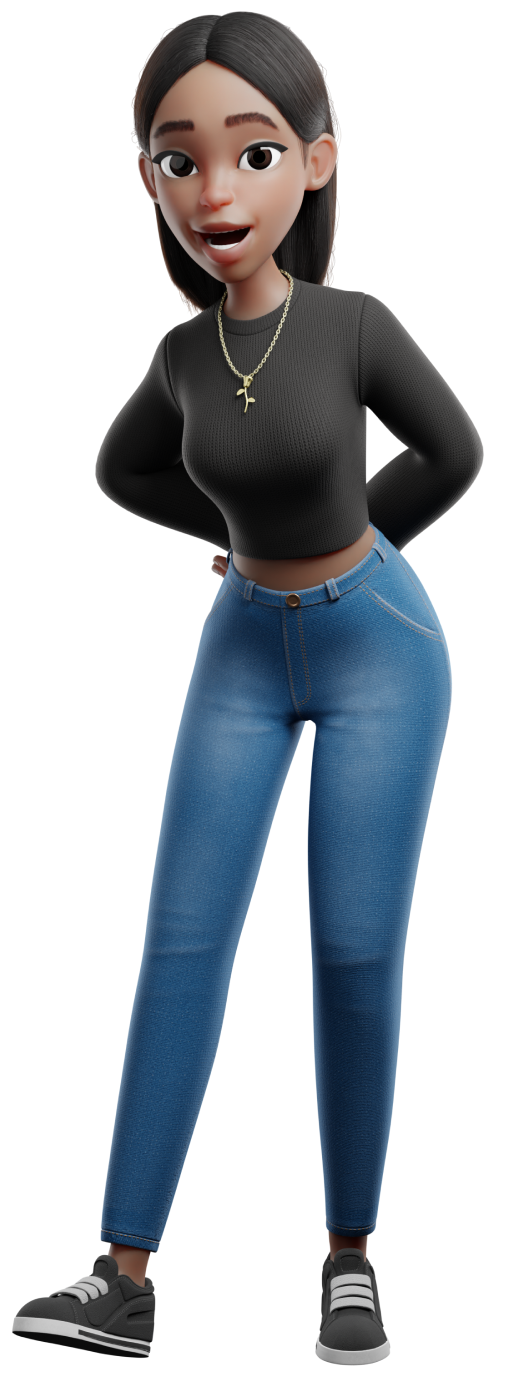
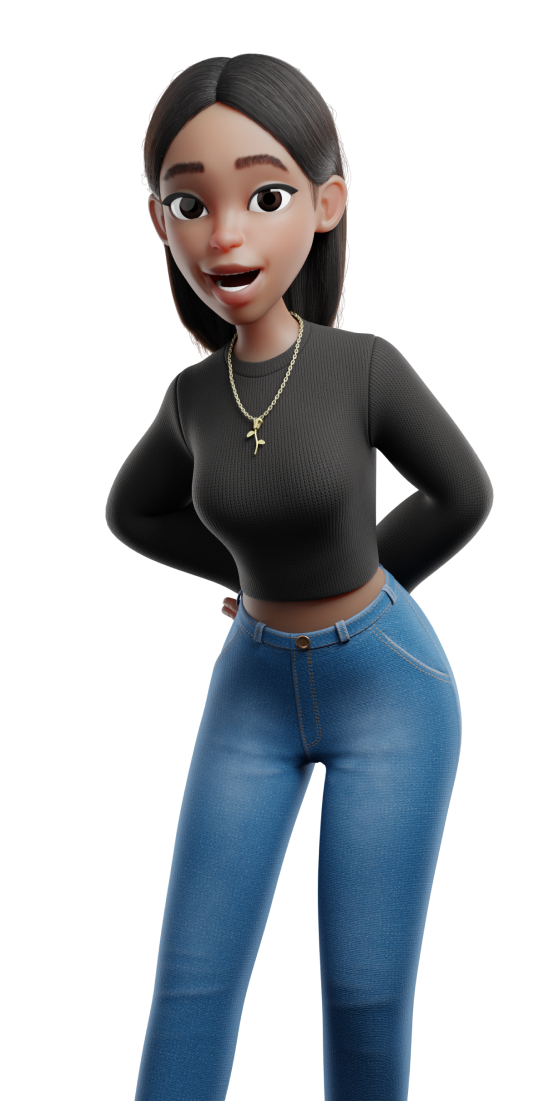
[FIX] #02 editd Sally Tutorial Style
Former-commit-id: 5f4c2cd6ac64124581663fa660f7d908d9deb4d5

diff --git a/FE/worldy/src/routes/Explore.tsx b/FE/worldy/src/routes/Explore.tsx
@@ -21,39 +21,45 @@ const Explore = () => {
   const SallyToturial = (): JSX.Element => {
     return (
       <div
-        className={`absolute grid place-content-center w-screen h-full bg-[rgba(0,0,0,0.5)] z-50 ${
+        className={`absolute flex flex-col justify-end items-center w-screen h-full bg-[rgba(0,0,0,0.5)] z-50 ${
           doneLoader ? 'opacity-100' : 'opacity-0'
         }`}
       >
-        <div className='w-[1500px] h-[800px] outline-white flex flex-row justify-end items-end'>
-          <div className='w-[1020px] h-full  flex flex-col justify-start items-end'>
-            <div className='w-full h-[400px] px-[30px] py-[40px] text-[rgba(180,180,180,1)] font-PtdMedium bg-[rgba(0,0,0,0.5)] rounded-xl outline outline-[rgba(255,255,255,0.8)] outline-[5px] flex flex-col justify-between items-start'>
-              <span className='text-[50px] text-[rgba(220,220,220,1)]'>
-                안녕? 세계 탐험으로 온 걸 환영해!
-              </span>
-              <span className='text-[30px] leading-[38px]'>
-                이곳에서는 각 나라마다 다양한 퀴즈를 만나볼 뿐만 아니라,
-                <br />그 나라들만의 소식과 문화, 그리고 역사를 알 수 있어.
-              </span>
-              <span className='text-[32px] text-white leading-[40px]'>
-                원하는 대륙을 두 번 클릭한 다음
-                <br />
-                목적지를 한번 더 클릭해서 나라에 들어갈 수 있지.
-              </span>
-              <span className='text-[40px] '>
-                자, 네가 가고싶은 나라는 어디니?
-              </span>
-            </div>
-            <div className='w-full h-[100px]  outline-red-300 grid place-content-center'>
-              <button
-                className='w-[200px] h-[50px] rounded-full text-[20px] bg-[#73ae73] hover:bg-[#73d673] text-white'
-                onClick={() => setSallyState(false)}
-              >
-                출발하기
-              </button>
+        <div className='w-screen h-[800px] relative pl-[100px] outline-white flex flex-row justify-start items-end'>
+          <div className='w-screen absolute bottom-0 left-0 h-[550px] bg-[rgba(0,0,0,0.5)] flex flex-row justify-start items-start pt-[60px] pl-[580px]'>
+            <div className='w-full h-[250px] flex flex-row justify-start items-start z-30'>
+              <div className='w-fit mr-[70px] h-[250px] flex flex-col justify-between items-start text-[rgba(220,220,220,1)] font-PtdRegular rounded-xl  outline-[rgba(255,255,255,0.8)] outline-[5px] '>
+                <span className='font-PtdExtraLight text-[#F9C53A] text-[25px]'>
+                  샐리
+                </span>
+                <span className='text-[40px] '>
+                  안녕? 세계 탐험으로 온 걸 환영해!
+                </span>
+                <span className='text-[28px] leading-[34px]'>
+                  원하는 대륙을 두 번 클릭한 다음
+                  <br />
+                  목적지를 한번 더 클릭해서 나라에 들어갈 수 있어.
+                </span>
+                <span className='text-[35px] text-white '>
+                  자, 네가 가고싶은 나라는 어디니?
+                </span>
+              </div>
+              <div className='h-full w-[250px]  outline-red-300 flex flex-col justify-end items-center'>
+                <button
+                  className='w-[200px] h-[50px] rounded-full text-[20px] bg-[#73ae73] hover:bg-[#73d673] text-white'
+                  onClick={() => setSallyState(false)}
+                >
+                  출발하기
+                </button>
+              </div>
             </div>
           </div>
-          <img src={SallyTotu} alt='Sally Tutorial' className='w-[240px]' />
+          <img
+            src={SallyTotu}
+            alt='Sally Tutorial'
+            className='h-[900px] translate-y-[100px]'
+            style={{ transform: 'rotatey(180deg)' }}
+          />
         </div>
       </div>
     );
